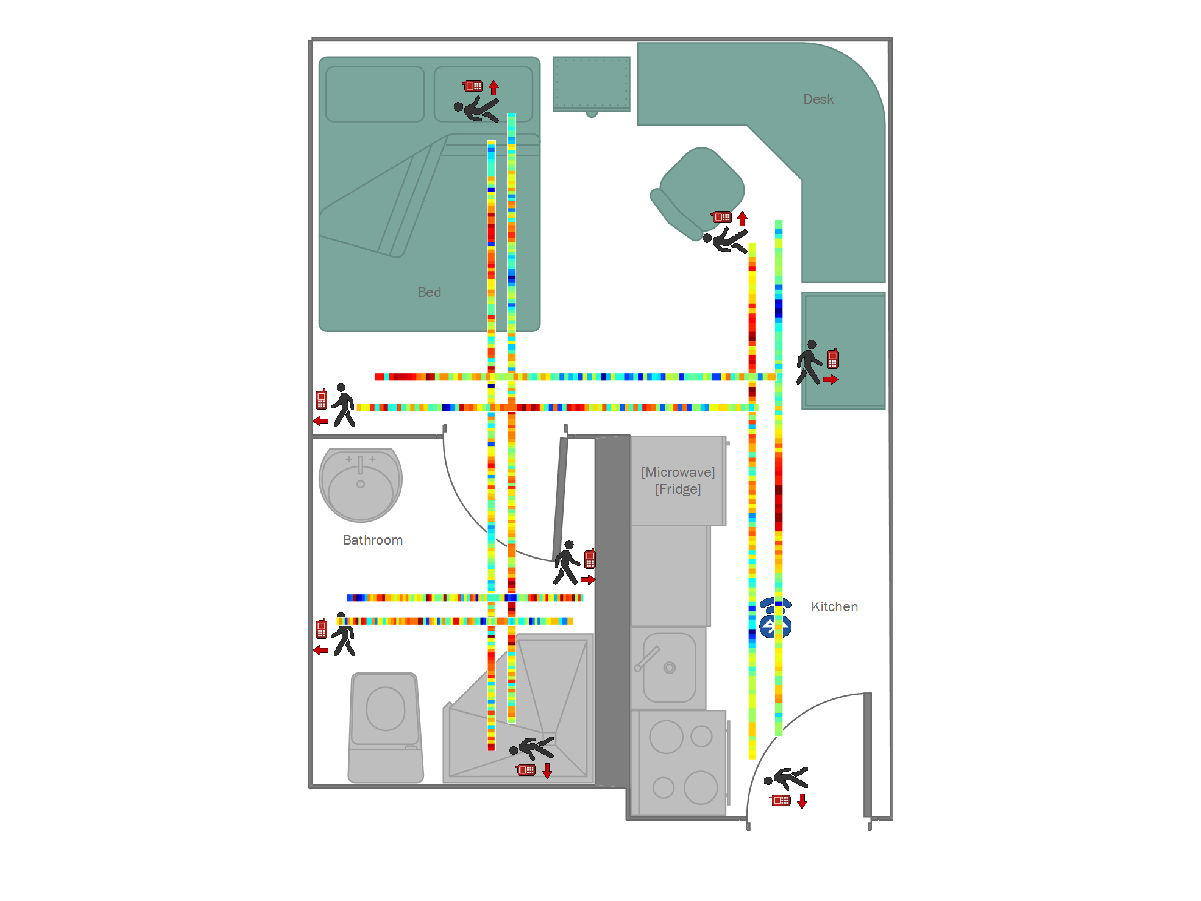
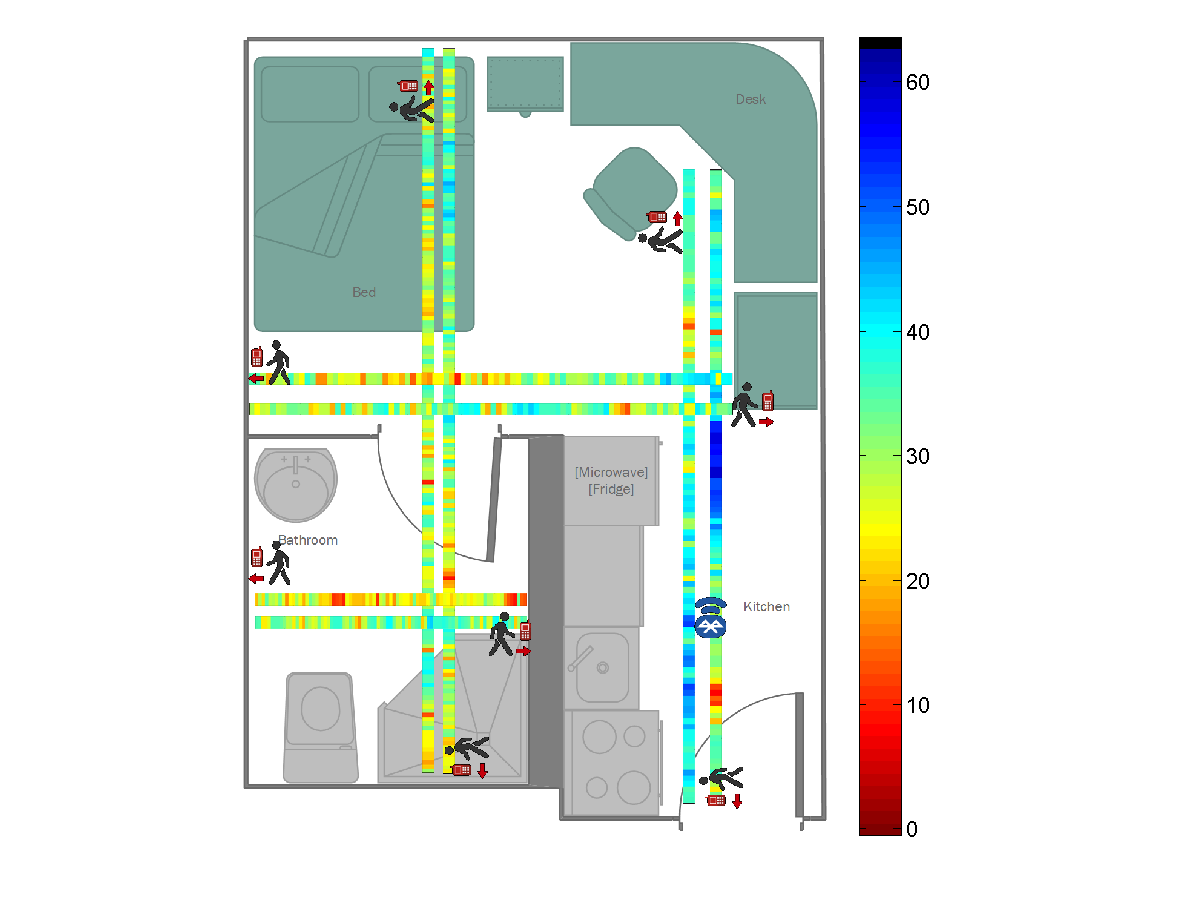
AUS Done

Changed region(s): [[0.1848, 0.0311, 0.7702, 0.9323]]

diff --git a/AUS_Studio_Data_Visualization/Starter.m b/AUS_Studio_Data_Visualization/Starter.m
@@ -41,10 +41,10 @@ Walking_Direction_Icon_Location_P1_Up = [650, 286];
 Walking_Direction_Icon_Location_P1_Down = [750, 1200];
 Walking_Direction_Icon_Location_P2_Up = [240, 70];
 Walking_Direction_Icon_Location_P2_Down = [330, 1150];
-Walking_Direction_Icon_Location_P3_Left = [5, 570];
-Walking_Direction_Icon_Location_P3_Right = [800, 500];
-Walking_Direction_Icon_Location_P4_Left = [5, 948];
-Walking_Direction_Icon_Location_P4_Right = [400, 830];            
+Walking_Direction_Icon_Location_P3_Left = [5, 500];
+Walking_Direction_Icon_Location_P3_Right = [800, 570];
+Walking_Direction_Icon_Location_P4_Left = [5, 830];
+Walking_Direction_Icon_Location_P4_Right = [400, 948];            
             
             
 walking_direction_icon_list = [Walking_Direction_Icon_Location_P1_Up,
@@ -67,14 +67,14 @@ walking_direction_icon_image_list = {'Walk_Up.png',
                                      'Walk_Right.png'};
 
 
-Heat_Map_Location_P1_Up = [726, 200];
-Heat_Map_Location_P1_Down = [770, 200];
-Heat_Map_Location_P2_Up = [296, 5];
-Heat_Map_Location_P2_Down = [330, 5];
-Heat_Map_Location_P3_Left = [1, 556];
-Heat_Map_Location_P3_Right = [1, 606];
-Heat_Map_Location_P4_Left = [1, 920];
-Heat_Map_Location_P4_Right = [1, 958];
+Heat_Map_Location_P1_Up = [726, 220];
+Heat_Map_Location_P1_Down = [770, 220];
+Heat_Map_Location_P2_Up = [296, 20];
+Heat_Map_Location_P2_Down = [330, 20];
+Heat_Map_Location_P3_Left = [10, 556];
+Heat_Map_Location_P3_Right = [10, 606];
+Heat_Map_Location_P4_Left = [20, 920];
+Heat_Map_Location_P4_Right = [20, 958];
 
 
 heat_map_location_list = [Heat_Map_Location_P1_Up,
@@ -88,8 +88,8 @@ heat_map_location_list = [Heat_Map_Location_P1_Up,
 
 
 
-heat_map_rotation_list = [270, 90,  270, 90, 0, 180, 0, 180]
-heat_map_length_list = [1100, 1100,  1300, 1300, 850, 850, 500, 500]
+heat_map_rotation_list = [90, 270,  90, 270, 180, 0, 180, 0]
+heat_map_length_list = [1050, 1050,  1200, 1200, 800, 800, 450, 450]
 
 [ folder_list, folder_path_list, number_of_folders ] = get_folder_list(data_folder_path);
 
@@ -102,13 +102,22 @@ for folder_index = 1:number_of_folders
     h = figure;
     floor_map_image = imread('C:\ResearchCode\BT_SIGNAL_ANALYSIS\AUS_Studio_Data_Visualization\Resources\Floor_Maps\AUS_Studio.png');
     imshow(floor_map_image);
+    
+    
+    map = colormap; % current colormap
+    map(1,:) = [0,0,0];
+    colormap(map)
+    colormap(flipud(colormap))
+    
+    [cmin,cmax] = caxis;
+    caxis([-110, -50])
+    [cmin,cmax] = caxis;
+    colorbar;
     hold on
+    
+    
 
-    paint_BT_icon(BT_icon_list(folder_index),...        
-                  BT_icon_location_list(folder_index,1),...     
-                  BT_icon_location_list(folder_index,2));
-    paint_all_direction_icons(walking_direction_icon_image_list,...
-                              walking_direction_icon_list);
+    
     
     folder_path = folder_path_list(folder_index,1);
     [ file_list, number_of_files ] = get_file_list(folder_path);
@@ -143,6 +152,13 @@ for folder_index = 1:number_of_folders
         heat_map_location_index = (heat_map_location_index + 1)
         
     end
+    
+    paint_BT_icon(BT_icon_list(folder_index),...        
+                  BT_icon_location_list(folder_index,1),...     
+                  BT_icon_location_list(folder_index,2));
+    paint_all_direction_icons(walking_direction_icon_image_list,...
+                              walking_direction_icon_list);
+    
     saveas(h, visualization_image_save_name,'png');
     close(h)
 end

diff --git a/AUS_Studio_Data_Visualization/paint_heat_map.m b/AUS_Studio_Data_Visualization/paint_heat_map.m
@@ -2,16 +2,29 @@ function [  ] = paint_heat_map( data, rotation, length,  location_x, location_y 
 
     fig = figure;
     heat_map = imagesc(data)
-    %set(gca, 'CLim', [-110, -50]);
-    axis off
+    %set(gca, 'CLim', [-110, -60]);
+    
+    [cmin,cmax] = caxis;
+    caxis([-110, -50])
+    map = colormap; % current colormap
+    map(1,:) = [0,0,0];
+    colormap(map)
+    colormap(flipud(colormap))
+    %colorbar;
+    %axis off
     saveas(heat_map,'temp.png','png');
 	close(fig);
     [heat_map, map, alpha] = imread('temp.png');
-    heat_map = imresize(heat_map,[15 length]);
+    %imshow(heat_map);
+    %close;
+    heat_map = imcrop(heat_map,[156 69 932 735]);
+    %imshow(heat_map);
+    heat_map = imresize(heat_map,[20 length]);
     heat_map = imrotate(heat_map,rotation);
     uniquebgcolor=[255 255 255]; 
     mask = bsxfun(@eq,heat_map,reshape(uniquebgcolor,1,1,3));
     heat_map = imagesc(location_x, location_y, heat_map,'alphadata',1-double(all(mask,3)));
+    
     delete('temp.png');
 end
 

diff --git a/AUS_Studio_Data_Visualization/Data_Analyzer.m b/AUS_Studio_Data_Visualization/Data_Analyzer.m
@@ -5,6 +5,12 @@ function [ Raw_Data_Y1_transposed, Raw_Data_Y2_transposed ] = Data_Analyzer(file
 [Raw_Data_Y2, no_of_elements_in_Y2] = Raw_Data_Extractor4(filepath_2);
 
 
+Raw_Data_Y1_index  = find(Raw_Data_Y1 < 0)
+Raw_Data_Y2_index = find(Raw_Data_Y2 < 0)
+
+Raw_Data_Y1 = Raw_Data_Y1(Raw_Data_Y1_index)
+Raw_Data_Y2 = Raw_Data_Y2(Raw_Data_Y2_index)
+
 Raw_Data_Y1_transposed = transpose(Raw_Data_Y1);
 Raw_Data_Y2_transposed = transpose(Raw_Data_Y2);
 
